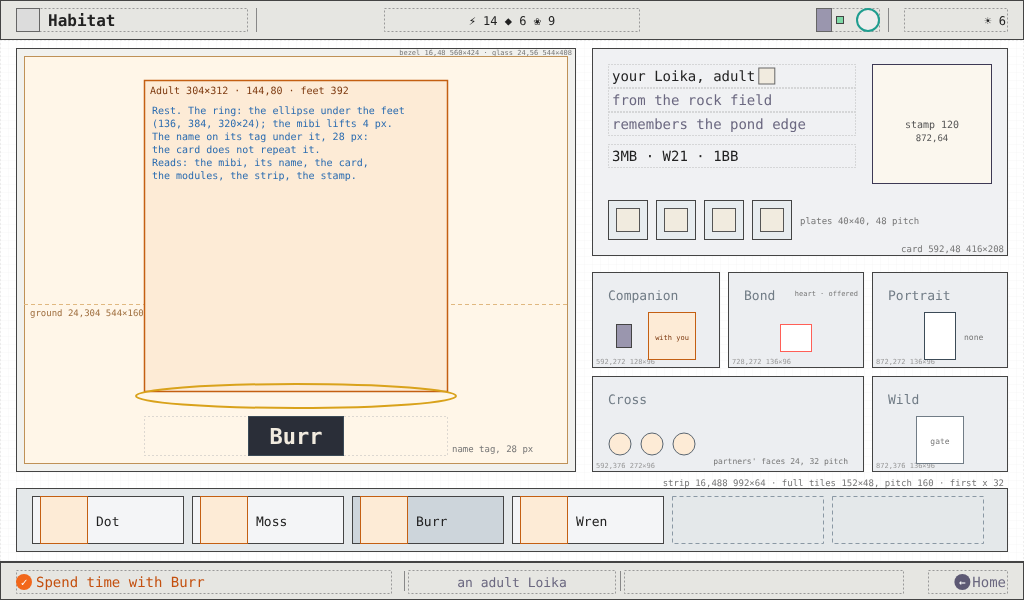
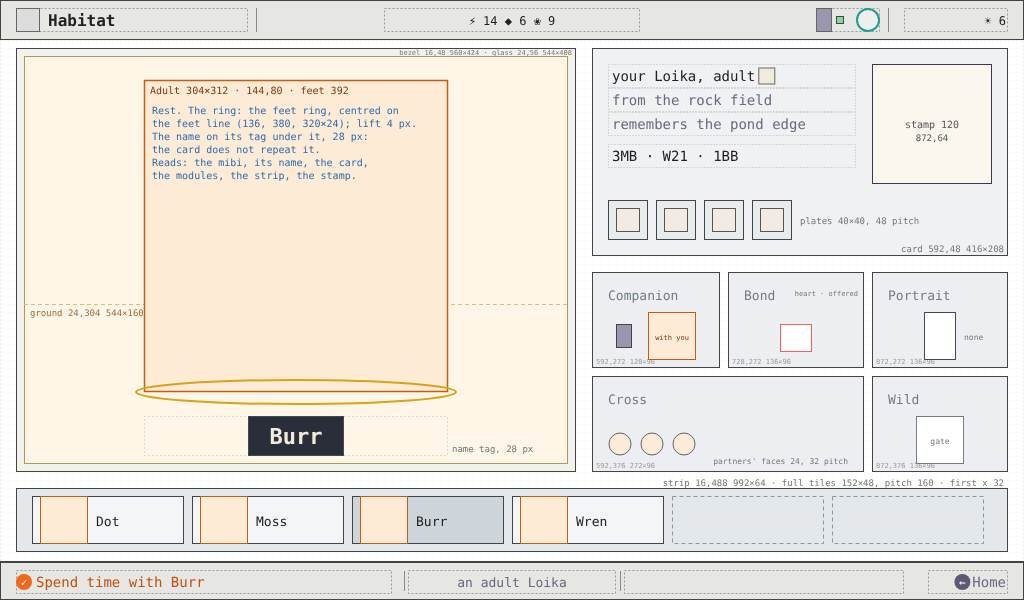
L2.5 spec: Habitat's and the bench's targets carry their ring forms (the mibi's feet ring centred on the feet line, the name tag 12 px under it, as on Home); wireframes re-rendered

Changed region(s): [[0.125, 0.63, 0.4375, 0.69], [0.1562, 0.18, 0.4062, 0.21]]

diff --git a/design/style-guide/station-layouts.md b/design/style-guide/station-layouts.md
@@ -1469,7 +1469,7 @@ The window fills the left (16 to 576) above the strip, the mibi centred in it wi
 | **Living window (glass)** | 24, 56, 544, 408 | Ground band 24, 304, 544, 160; no words but the tag and the meet ribbon |
 | **The mibi (focal)** | 144, 80, 304, 312 | Axis x 296, feet y 392; the juvenile's box on the Incubator, so it reads as the same creature after the hatch |
 | Waiting lamp | 436, 80, 12, 12 | At the box's top right, riding the lift, while the placeholder is drawn |
-| Name tag | in 144, 416, 304, 40 | 40 tall; the name's width + 32, rounded up to the grid, at least 96, centred on x 296; the name 28 px semibold. Its top is 8 px under the ring's ellipse (384 to 408), its bottom 8 px inside the glass |
+| Name tag | in 144, 416, 304, 40 | 40 tall; the name's width + 32, rounded up to the grid, at least 96, centred on x 296; the name 28 px semibold. Its top is at the feet + 24, 12 px under the feet ring (380 to 404), as on Home; its bottom 8 px inside the glass |
 | Meet ribbon | 144, 416, 304, 40 | In the tag's place, 20 px, centred; the meet only |
 | Card | 592, 48, 416, 208 | `panel` |
 | Species line | 608, 64, 248, 24 | "your Loika, adult", 16 px, with `mark-guide-16` 4 px after the last word; a focus target |
@@ -1543,7 +1543,7 @@ The ring is the frame's `focusRing` word; the bottom line and the top bar are th
 | `low` | the nearest of `low` to the left, else `resident` | the nearest of `low` to the right, else none | `nearestIn: top` | `tile.shown` |
 | `tile` | the previous tile (axis; the first stops) | the next tile (the last stops) | `resident` | none |
 
-"The nearest to the left" is `{ "nearestIn": g, "ahead": true }`; "else" is the next entry of an ordered list. **Rings:** the mibi's ellipse under its feet (136, 384, 320, 24) with the 4 px lift; round rings 4 px outside the species line, a plate, a module or a tile, with the 2 px chrome lift (none on the species line). **Opens on:** the mibi (the Habitat key: the one last seen; the hatch and Home's ✓ Meet: the new one, in the meet; Home's ✓ Look at and the Book's ✓ Visit: that one); from Cross, ← lands on the Cross module; empty, the room (no ring). **Held:** while the moment, a read, the bond or a release holds, the face moves no focus and sends no intent. **Vectors** are in `habitat.json` `focus.vectors` (for example plate.0 ▼ door, door ▲ plate.1, door ▼ cross, wild ▼ the shown tile).
+"The nearest to the left" is `{ "nearestIn": g, "ahead": true }`; "else" is the next entry of an ordered list. **Rings** (each target's `ring`, frame.json `focus.ring.forms`): the mibi's `feet` ring (136, 380, 320, 24) with the 4 px lift; `round` rings 4 px outside the species line, a plate, a module or a tile, with the 2 px chrome lift (none on the species line). **Opens on:** the mibi (the Habitat key: the one last seen; the hatch and Home's ✓ Meet: the new one, in the meet; Home's ✓ Look at and the Book's ✓ Visit: that one); from Cross, ← lands on the Cross module; empty, the room (no ring). **Held:** while the moment, a read, the bond or a release holds, the face moves no focus and sends no intent. **Vectors** are in `habitat.json` `focus.vectors` (for example plate.0 ▼ door, door ▲ plate.1, door ▼ cross, wild ▼ the shown tile).
 
 ### Habitat's states and events
 
